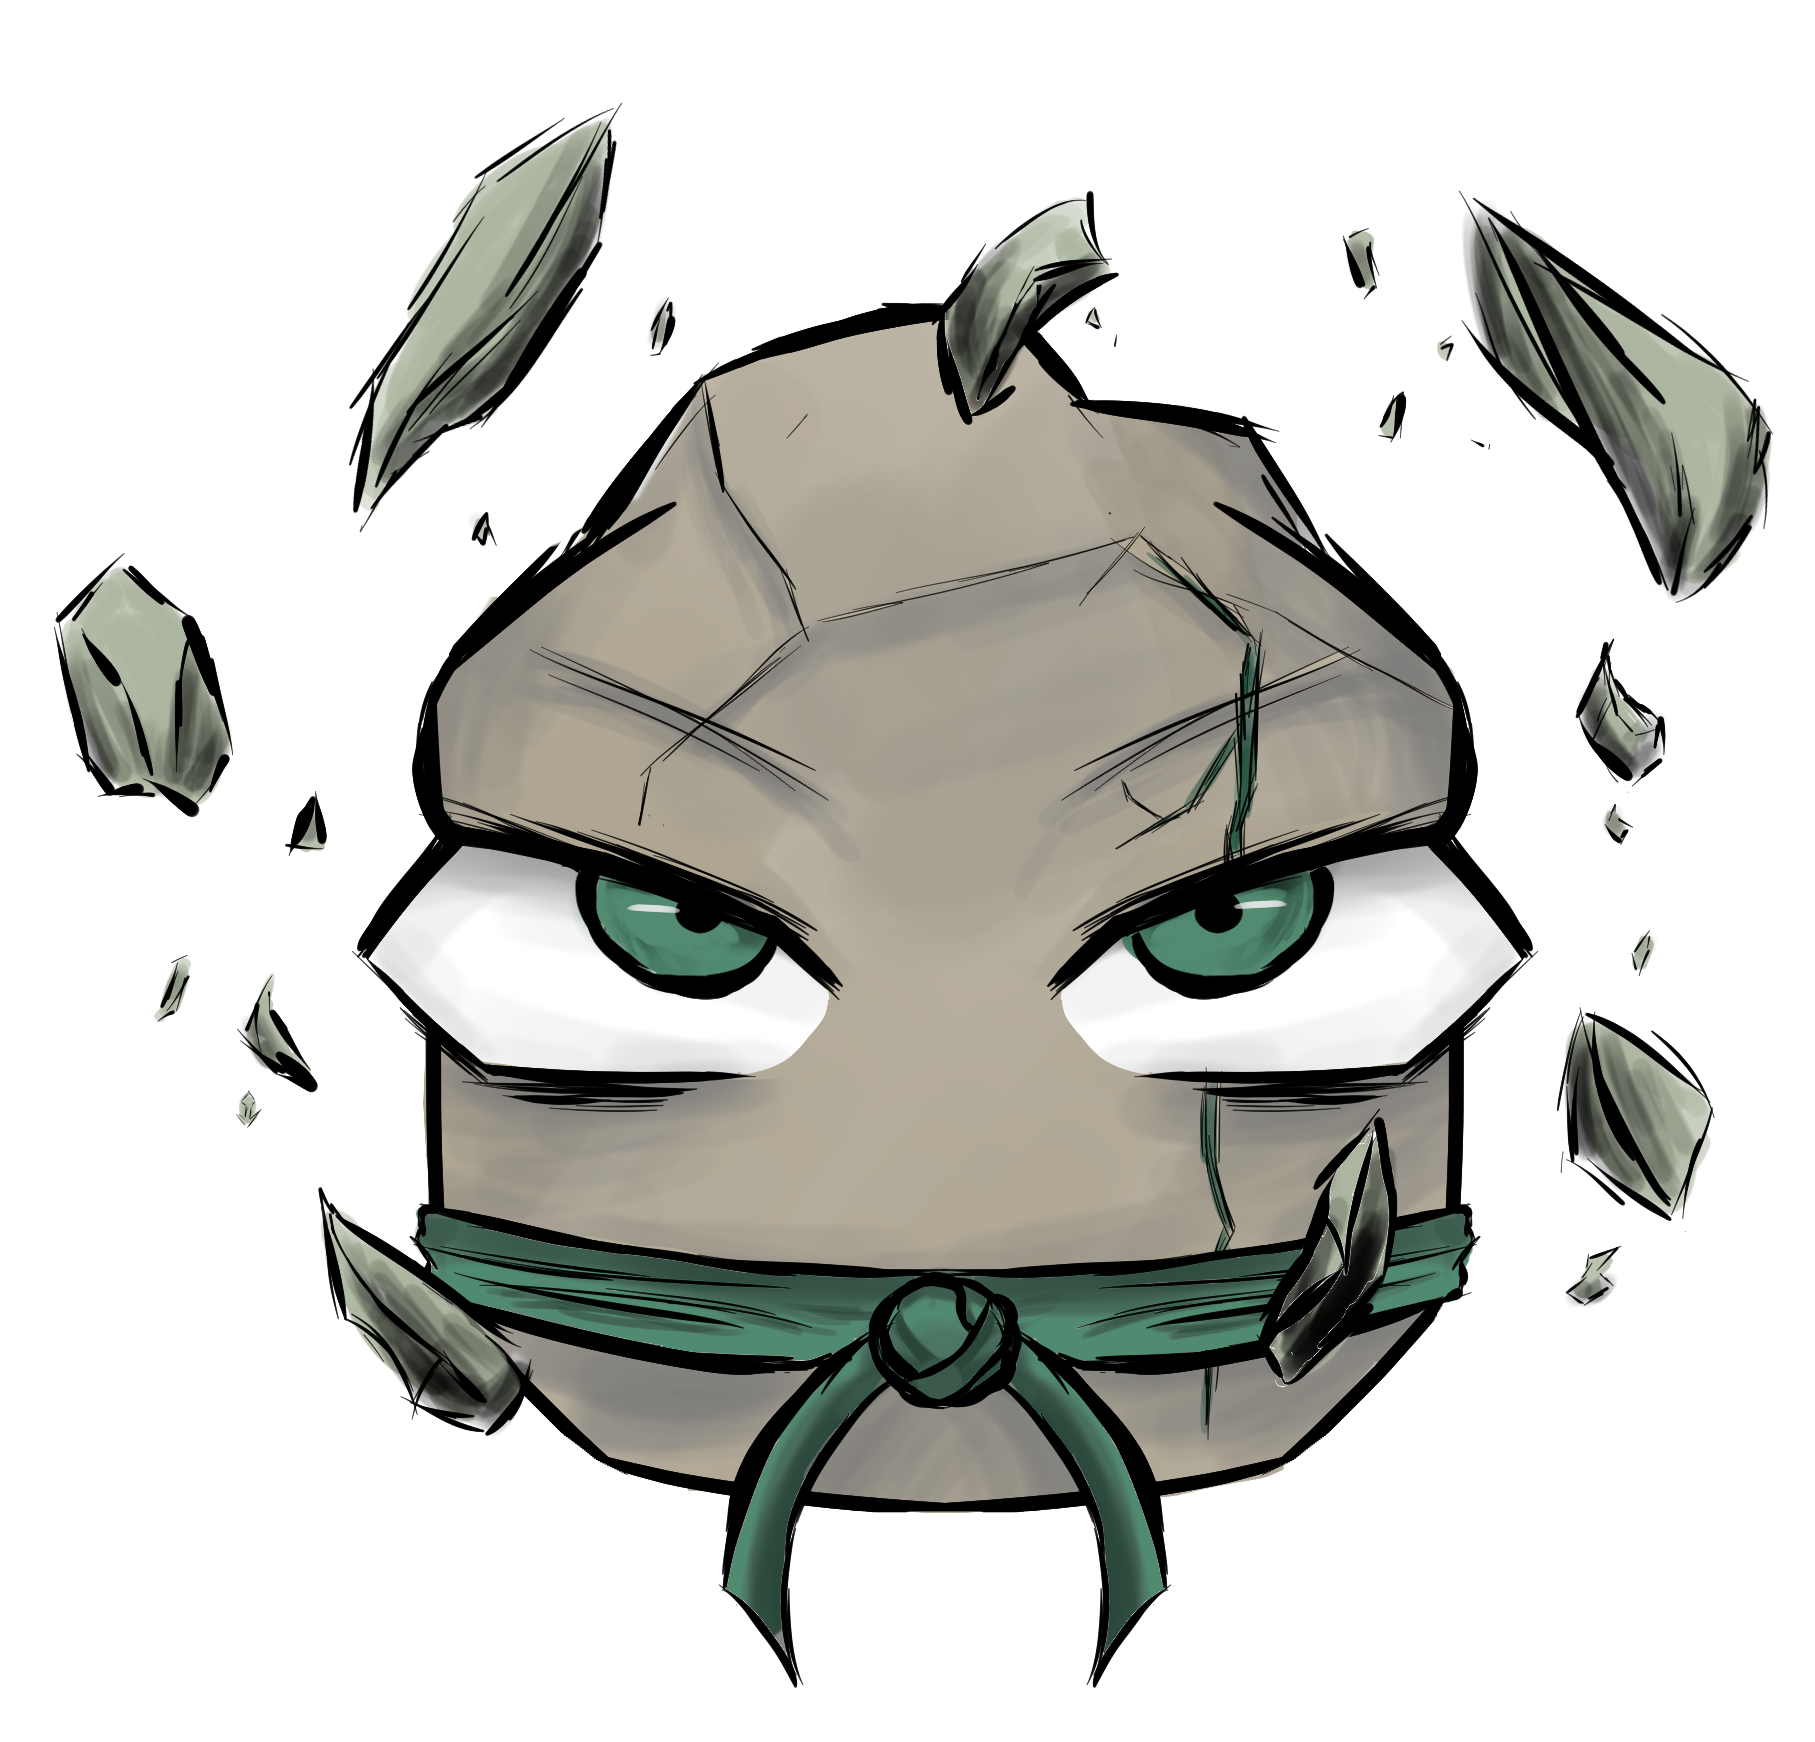
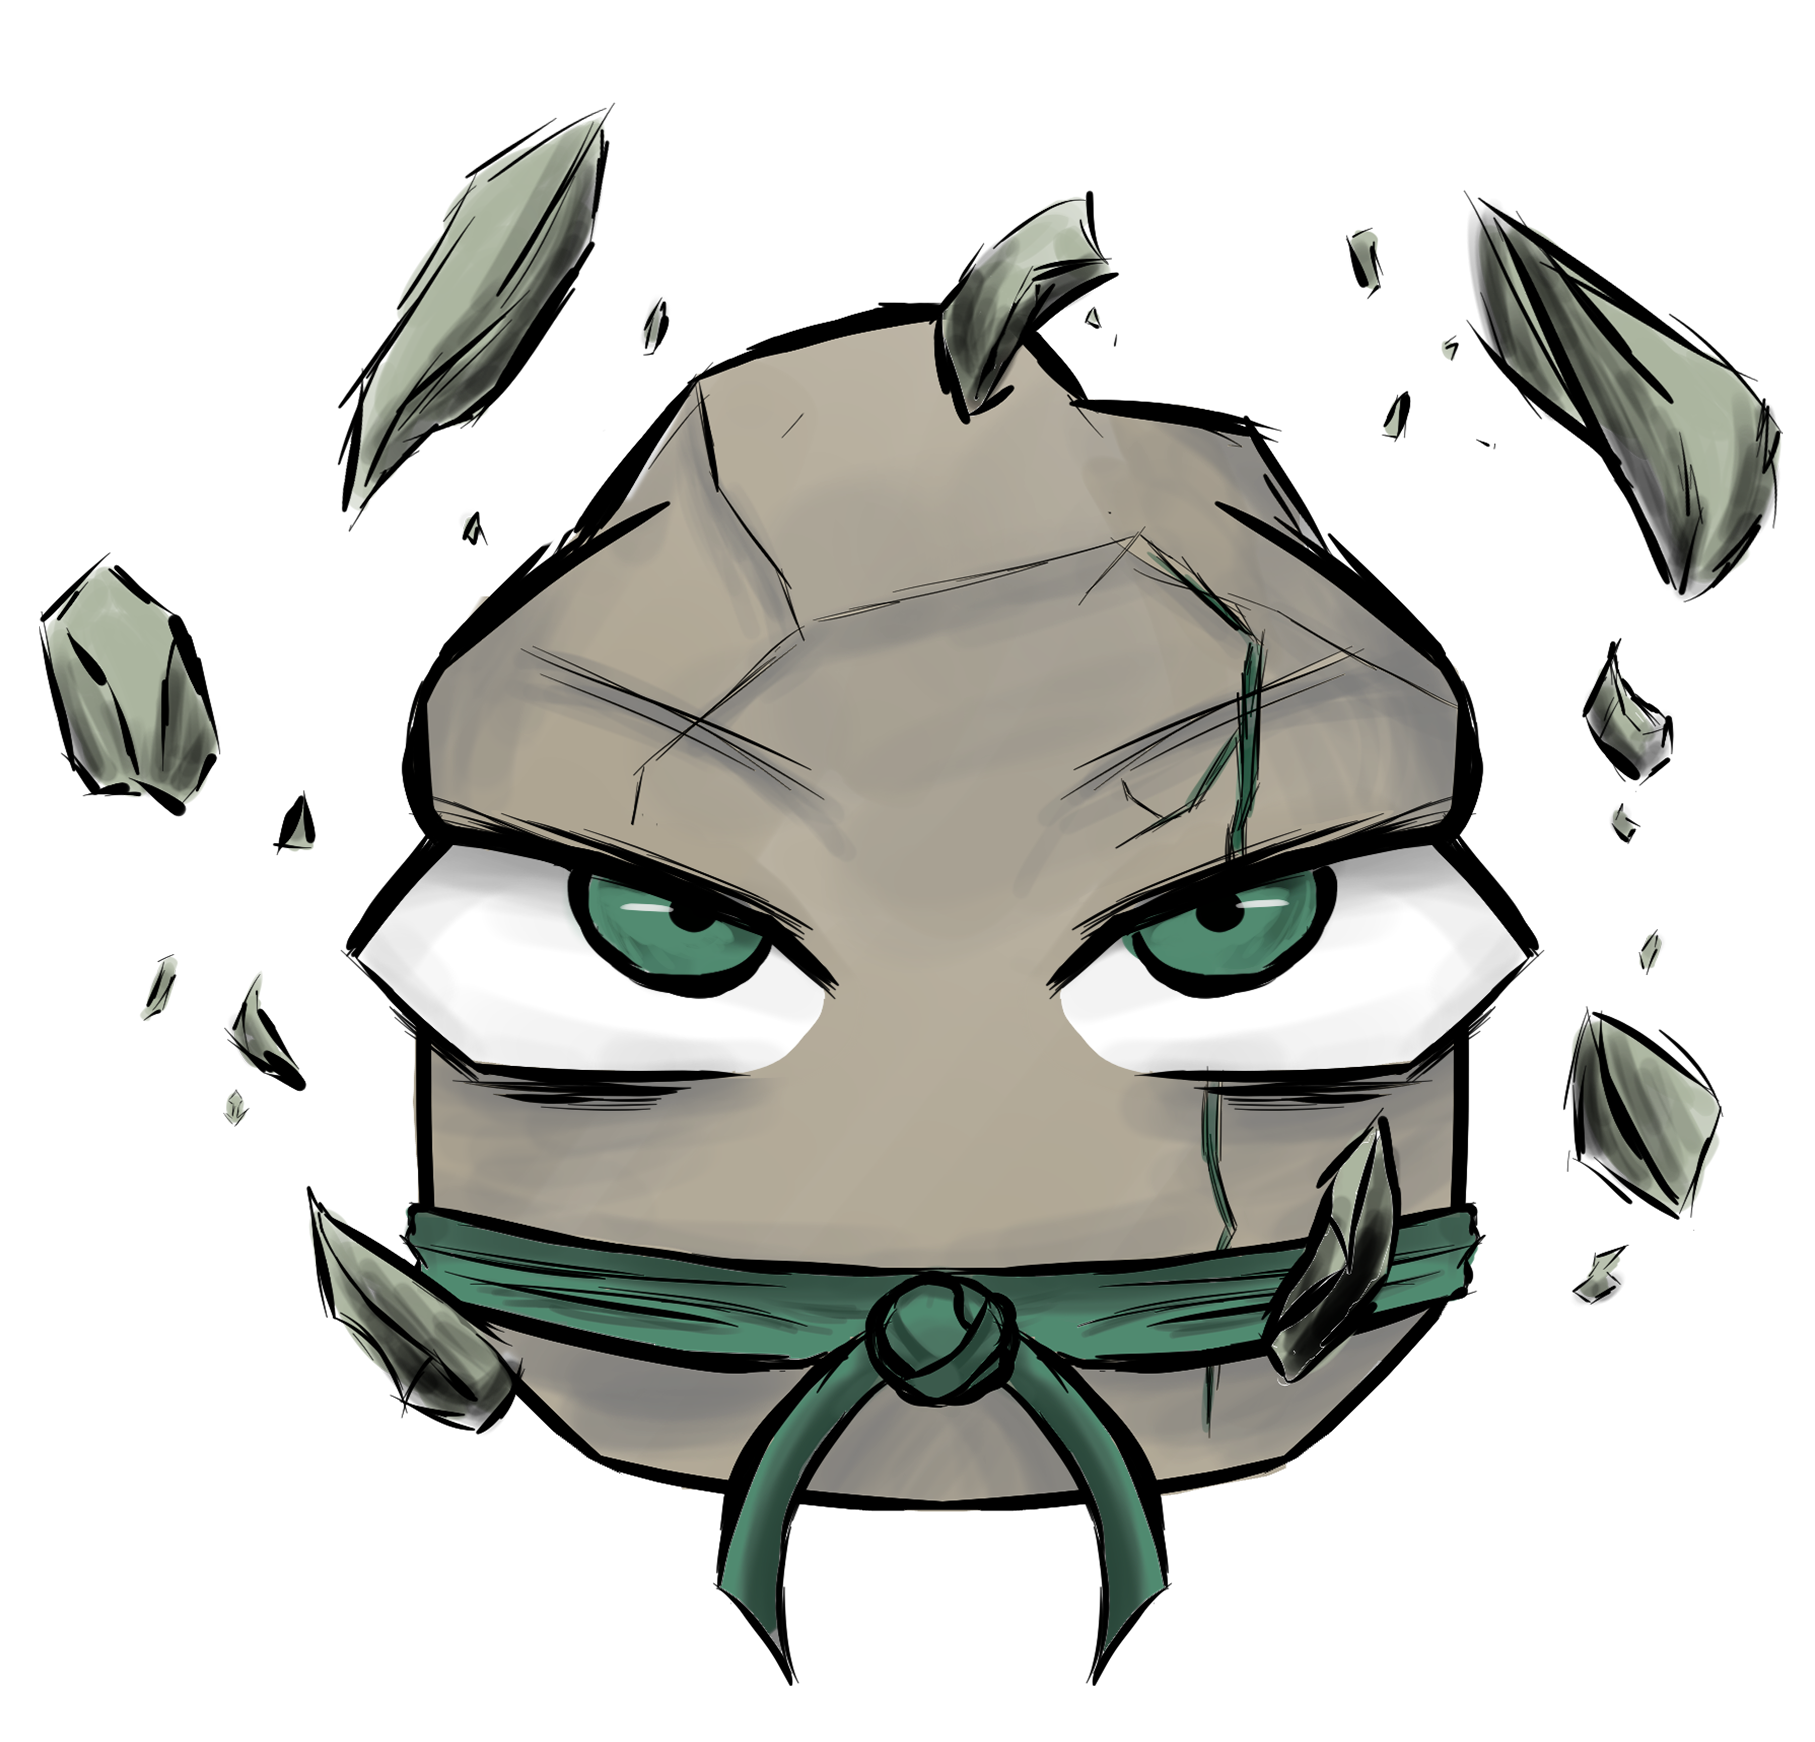
Balanceamento + Erro Sprite Ataque
Rebalanceamento dos atributos dos personagens, visando uma melhor jogabilidade dos usuários.

Além disso, foi corrigido o erro em que ao atacar, o sprite do personagem virava para direção oposta.

(Também houve a remoção das bordas brancas dos personagens, meramente estético)

diff --git a/js/jogo.js b/js/jogo.js
@@ -38,7 +38,7 @@ const estadoInicial = (personagem1, personagem2) => {
     return {
         player1: {
             personagem: personagem1,
-            vida: personagem1 === "Pedra" ? 175 : personagem1 == "Papel" ? 125 : personagem1 == "Tesoura" ? 150 : "Erro",
+            vida: personagem1 === "Pedra" ? 200 : personagem1 == "Papel" ? 125 : personagem1 == "Tesoura" ? 175 : "Erro",
             // Operador Ternário para decidir qual a vida do personagem baseado no personagem escolhido ^
             x: -600, // Posição inicial no eixo x na arena
             y: 125, // Posição inicial no eixo y na arena (acima do chão)
@@ -50,7 +50,7 @@ const estadoInicial = (personagem1, personagem2) => {
 
         player2: {
             personagem: personagem2,
-            vida: personagem2 === "Pedra" ? 200 : personagem2 == "Papel" ? 100 : personagem2 == "Tesoura" ? 150 : "Erro",
+            vida: personagem2 === "Pedra" ? 200 : personagem2 == "Papel" ? 125 : personagem2 == "Tesoura" ? 175 : "Erro",
             // Operador Ternário para decidir qual a vida do personagem baseado no personagem escolhido ^
             x: 600, // Posição inicial no eixo x na arena
             y: 125, // Posição inicial no eixo y na arena (acima do chão)
@@ -345,6 +345,9 @@ const aplicarGravidade = (estado, jogador) => {
 const atacar = (estado, jogador) => {
     const direcao = estado[jogador].direcao; // Aqui identificamos a direção que o personagem está olhando para realizar o ataque
     const oponente = jogador === "player1" ? "player2" : "player1"; // Identificamos quem é o oponente que sofrerá o ataque
+
+    // Detecta a direção que o oponente está olhando na hora do ataque, vai ser importante para definir o sprite tomando dano 
+    const oponenteDirecao = estado[oponente].direcao
     const distanciaDeAtaque = 200; // Definimos a distância do ataque básico
 
     // Aqui, há uma verificação se o oponente está na direção do ataque, se ele estiver na 
@@ -360,12 +363,12 @@ const atacar = (estado, jogador) => {
             // Caso seja, o ataque será bem-sucedido, e o oponente sofrerá dano
 
             // Definimos o dano base de cada ataque dependendo do personagem escolhido
-            const dano = estado[jogador].personagem === "Pedra" ? 15 : estado[jogador].personagem === "Papel" ? 10 : 20;
+            const dano = estado[jogador].personagem === "Pedra" ? 10 : estado[jogador].personagem === "Papel" ? 20 : 15;
 
             if (oponente === "player1") {
-                deixarVermelhoMomentaneamenteP1(imgPersonagem1)
+                deixarVermelhoMomentaneamenteP1(imgPersonagem1, oponenteDirecao)
             } else {
-                deixarVermelhoMomentaneamenteP2(imgPersonagem2)
+                deixarVermelhoMomentaneamenteP2(imgPersonagem2, oponenteDirecao)
             }
 
             if (estado[jogador].personagem === "Pedra") {
@@ -378,7 +381,6 @@ const atacar = (estado, jogador) => {
 
             // Chama a função atualizar a barra HP para atualizar o dano sofrido
             atualizarBarraHP()
-
 
             // Retorna um novo estado, com a sua vida alterada
             return {
@@ -396,23 +398,41 @@ const atacar = (estado, jogador) => {
 
 
 // Deixa o jogador 1 vermelho momentaneamente pra sinalizar que ele tomou dano
-const deixarVermelhoMomentaneamenteP1 = (personagem) => {
+const deixarVermelhoMomentaneamenteP1 = (personagem, direcao) => {
     // Aqui trocamos o endereço da imagem para outro endereço, em que tem um sprite do dado personagem tomando dano (vermelho)
-    personagem.style.backgroundImage = `url('assets/images/personagens/dano/${p1}.png')`;
-    setTimeout(() => {
-        // Depois de meio segundo, voltamos ele pro sprite original
-        personagem.style.backgroundImage = `url('assets/images/personagens/${p1}.png')`;
-    }, 500); 
+
+    // Aqui, usamos a direção do oponente para verificar qual sprite deve ser renderizado, o dele olhando para direita ou olhando para esquerda
+    if (direcao === "direita") {
+        personagem.style.backgroundImage = `url('assets/images/personagens/dano/viradoParaDireita/${p1}.png')`;
+        setTimeout(() => {
+            // Depois de meio segundo, voltamos ele pro sprite original, olhando para a dada direção
+            personagem.style.backgroundImage = `url('assets/images/personagens/olhandoDireita/${p1}.png')`;
+        }, 500); 
+    } else {
+        personagem.style.backgroundImage = `url('assets/images/personagens/dano/viradoParaEsquerda/${p1}.png')`;
+        setTimeout(() => {
+            // Depois de meio segundo, voltamos ele pro sprite original, olhando para a dada direção
+            personagem.style.backgroundImage = `url('assets/images/personagens/olhandoEsquerda/${p1}.png')`;
+        }, 500);  
+    }
 }
 
 // Deixa o jogador 2 vermelho momentaneamente pra sinalizar que ele tomou dano
-const deixarVermelhoMomentaneamenteP2 = (personagem) => {
+const deixarVermelhoMomentaneamenteP2 = (personagem, direcao) => {
     // Aqui trocamos o endereço da imagem para outro endereço, em que tem um sprite do dado personagem tomando dano (vermelho)
-    personagem.style.backgroundImage = `url('assets/images/personagens/dano/${p2}.png')`;
-    setTimeout(() => {
-        // Depois de meio segundo, voltamos ele pro sprite original
-        personagem.style.backgroundImage = `url('assets/images/personagens/${p2}.png')`;
-    }, 500); 
+    if (direcao === "direita") {
+        personagem.style.backgroundImage = `url('assets/images/personagens/dano/viradoParaDireita/${p2}.png')`;
+        setTimeout(() => {
+            // Depois de meio segundo, voltamos ele pro sprite original
+            personagem.style.backgroundImage = `url('assets/images/personagens/olhandoDireita/${p2}.png')`;
+        }, 500); 
+    } else {
+        personagem.style.backgroundImage = `url('assets/images/personagens/dano/viradoParaEsquerda/${p2}.png')`;
+        setTimeout(() => {
+            // Depois de meio segundo, voltamos ele pro sprite original
+            personagem.style.backgroundImage = `url('assets/images/personagens/olhandoEsquerda/${p2}.png')`;
+        }, 500);  
+    }
 }
 
 

diff --git a/js/main.js b/js/main.js
@@ -7,8 +7,8 @@ const audio = document.querySelector("#audio")
 
 // Definição dos atributos dos personagens
 const pedraAtributos = [0, 0, 0, 0, 0, 1, 1, 2, 2, 2]
-const papelAtributos = [0, 0, 1, 1, 1, 1, 1, 2, 2, 2]
-const tesouraAtributos = [0, 0, 0, 0, 1, 1, 1, 2, 2, 2, 2]
+const papelAtributos = [0, 0, 1, 1, 1, 1, 1, 2, 2, 2, 2]
+const tesouraAtributos = [0, 0, 0, 1, 1, 1, 2, 2, 2]
 
 const estrelaVermelha = document.createElement('img').setAttribute('src', `/assets/images/EstrelaVermelha.png`)
 const estrelaAzul = document.createElement('img').setAttribute('src', `/assets/images/EstrelaAzul.png`)
